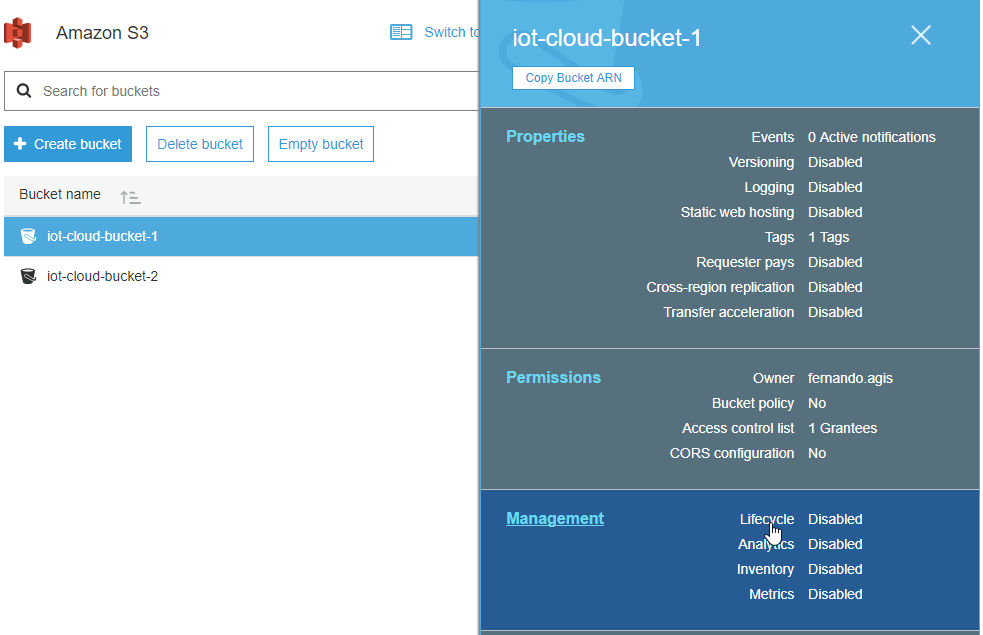
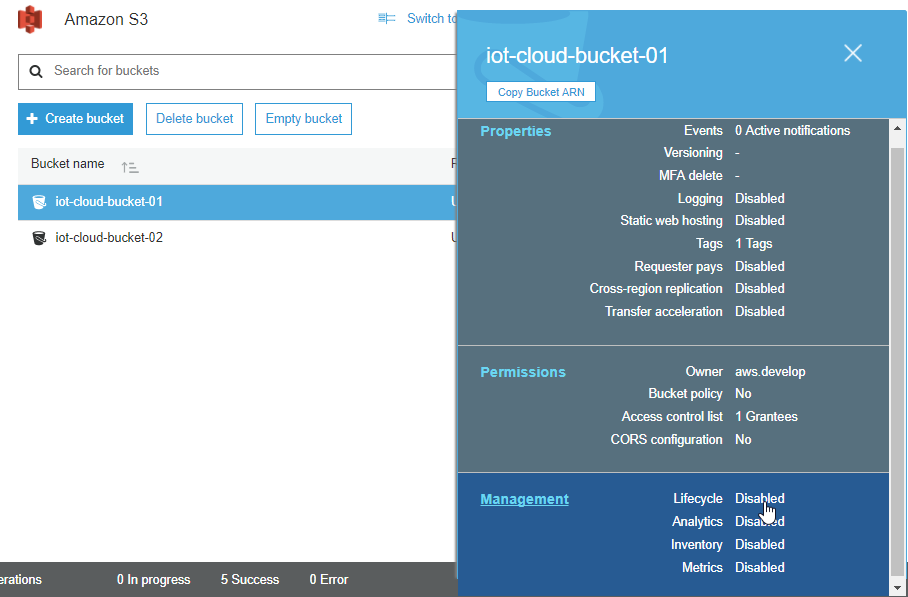
Actualización de ejemplos en Parte 2

Changed region(s): [[0.0, 0.0, 1.0, 1.0]]

diff --git a/AWS Cloud/S3/20170810_AWS_S3_Parte_2.md b/AWS Cloud/S3/20170810_AWS_S3_Parte_2.md
@@ -71,27 +71,30 @@ Los objetos se pueden subir directamente a una determinada *Storage Class*.
 Esto lo podemos hacer directamente por línea de comando:
 
 ```bash
+$ cat documento1.txt
+HOLA MUNDO!!  que original, no? :P
+
 $ aws s3 ls
-2017-08-08 16:33:33 iot-cloud-bucket-1
-2017-08-10 21:11:11 iot-cloud-bucket-2
+2017-08-08 16:33:33 iot-cloud-bucket-01
+2017-08-10 21:11:11 iot-cloud-bucket-02
 
-$ aws s3 cp documento1.txt s3://iot-cloud-bucket-2/ --storage-class REDUCED_REDUNDANCY
-upload: .\documento1.txt to s3://iot-cloud-bucket-2/documento1.txt
+$ aws s3 cp documento1.txt s3://iot-cloud-bucket-02/ --storage-class REDUCED_REDUNDANCY
+upload: .\documento1.txt to s3://iot-cloud-bucket-02/documento1.txt
 
-$ aws s3 ls iot-cloud-bucket-2
+$ aws s3 ls iot-cloud-bucket-02
 2017-08-10 21:16:02         34 documento1.txt
 ```
-En el ejemplo anterior estamos subiendo el objeto *documento1.txt* de nuesto equipo local hacia S3, y almacenandolo en el tipo de storage *Reduced Redundancy Storage (RRS)*.
+En el ejemplo anterior subimos el objeto *documento1.txt* de nuesto equipo local hacia S3, y al tipo de storage *Reduced Redundancy Storage (RRS)*.
 Podemos elegir donde subirlo utilizando las opciones *STANDARD*, *STANDARD_IA*, o *REDUCED_REDUNDANCY*.
 
 Ref: [Sintaxis del comando *aws s3 cp*](http://docs.aws.amazon.com/cli/latest/reference/s3/cp.html)
 
 Pero como sabemos en que clase de storage se encuentra este objeto??
-La línea de comando *aws s3* no muestra esta información.
-Pero podemos usar la línea de comando invocando a la API de S3 (la cual devuelve el resultado en formato JSON).
+La línea de comando *aws s3 ls* no muestra esta información.
+Pero podemos usar la línea de comando invocando a la API de S3 (la cual en este caso devuelve el resultado en formato JSON).
 
 ```bash
-$ aws s3api list-objects --bucket iot-cloud-bucket-2
+$ aws s3api list-objects --bucket iot-cloud-bucket-02
 {
     "Contents": [
         {
@@ -101,14 +104,14 @@ $ aws s3api list-objects --bucket iot-cloud-bucket-2
             "Size": 34,
             "StorageClass": "REDUCED_REDUNDANCY",
             "Owner": {
-                "DisplayName": "fernando.agis",
[1 lines of base64/hex data omitted]
+                "DisplayName": "aws.develop",
[1 lines of base64/hex data omitted]
             }
         }
     ]
 }
 ```
-Mediante la consola web de AWS S3, también podemos especificar la clase de storage donde subimos el objeto:
+Mediante la consola web de AWS S3, también podemos especificar la clase de storage cuando subimos el objeto:
 
 ![alt text](./images/S3_upload_05.png)
 ![alt text](./images/S3_upload_06.png)
@@ -119,15 +122,18 @@ Y ver a que clase de storage pertenece:
 Si el objeto ya se encuentra en S3, podemos cambiarle la *storage class*:
 
 ```bash
-$ aws s3 cp s3://iot-cloud-bucket-2/documento1.txt s3://iot-cloud-bucket-2/documento1.txt --storage-class STANDARD
-copy: s3://iot-cloud-bucket-2/documento1.txt to s3://iot-cloud-bucket-2/documento1.txt
+$ aws s3 cp s3://iot-cloud-bucket-02/documento1.txt s3://iot-cloud-bucket-02/documento1.txt --storage-class STANDARD
+copy: s3://iot-cloud-bucket-02/documento1.txt to s3://iot-cloud-bucket-02/documento1.txt
+
 ```
 Verifique en la consola web (o por línea de comando) que el objeto *documento1.txt* efectivamente se cambio a la clase de storage *STANDARD* (puede requerir un reload en la consola web).
 
 Y por supuesto que la clase de storage se puede cambiar desde la propia consola web, seleccionando el objeto y modificando sus propiedades:
 
 ![alt text](./images/S3_object_01.png)
+---
 ![alt text](./images/S3_object_02.png)
+---
 ![alt text](./images/S3_object_03.png)
 
 ---
@@ -143,9 +149,9 @@ Cuando se crea un objeto se le puede agregar la metadata en el momento que se re
 ![alt text](./images/S3_metadata_01.png)
 ![alt text](./images/S3_metadata_02.png)
 
-La metadata de sistema se muestra en campos predefinidos. Por ejemplo, *Content-Length* contiene el tamaño del objeto en bytes y no se puede modificar, mientras que  *ContentType* indica el tipo de objeto (image/png,plain/text) y puede ser modificado.
+La **metadata de sistema** se muestra en campos predefinidos. Por ejemplo, *Content-Length* contiene el tamaño del objeto en bytes y no se puede modificar, mientras que *ContentType* indica el tipo de objeto (image/png,plain/text) y puede ser modificado.
 
-La metadata de usuario debe ir siempre precedida de *"x-amz-meta-"*. Luego podríamos agregar nuestra información, por ejemplo el tipo de imagen (logo) y la versión de dicha imagen (1.0) del objeto que estoy subiendo. Esta metadata se asigna en forma de clave/valor:
+La **metadata de usuario** debe ir siempre precedida de *"x-amz-meta-"*. Podemos agregar la información que deseamos, por ejemplo el tipo de imagen (logo) y la versión de dicha imagen (1.0) del objeto que estoy subiendo. Esta metadata se asigna en forma de clave/valor:
   *x-amz-meta-imagen   logo
    x-amz-meta-version  1.0*
 
@@ -157,25 +163,24 @@ Si queremos ver la metadata que tiene un objeto, podemos hacerlo de la forma ant
 Como vimos antes, el comando *s3 ls* lista los objetos, pero no muestra información detallada de los mismo. Para esto, debemos utilizar la *s3api* con la opción de *head-object* que devuelve únicamente la metadata del objeto.
 
 ```bash
-$ aws s3 ls iot-cloud-bucket-1
-2017-08-10 23:40:26          7 Documento-1.rtf
-2017-08-10 23:40:20       6317 Planilla-1.xlsx
-2017-08-10 23:38:18     794112 conatel.png
-2017-08-10 14:03:04       1753 logo.png
+$ aws s3 ls iot-cloud-bucket-01
+                           PRE carpeta-01/
+2017-08-15 22:24:37       1753 logo.png
 
 
-$ aws s3api head-object --bucket iot-cloud-bucket-1 --key conatel.png
+$ aws s3api head-object --bucket iot-cloud-bucket-01 --key logo.png
 {
     "AcceptRanges": "bytes",
-    "LastModified": "Fri, 11 Aug 2017 02:38:18 GMT",
-    "ContentLength": 794112,
-    "ETag": "\"c31616a16c736ccabc19781d2a6ba8a0\"",
+    "LastModified": "Wed, 16 Aug 2017 01:24:37 GMT",
+    "ContentLength": 1753,
+    "ETag": "\"2b46f8824a3dad3bc73f2ed3f852728c\"",
     "ContentType": "image/png",
     "Metadata": {
         "version": "1.0",
         "imagen": "logo"
     }
 }
+
 
 ```
 
@@ -214,13 +219,13 @@ También pueden asignarse *tags* a los *buckets*, no solo a los objetos:
 ![alt text](./images/S3_tags_04.png)
 
 
-O por qué no, ya deberíamos poder hacer esto desde la CLI:
+O por qué no, ya deberíamos poder ver los tags desde la CLI:
 ```bash
 $ aws s3 ls
-2017-08-08 16:33:33 iot-cloud-bucket-1
-2017-08-10 21:11:11 iot-cloud-bucket-2
+2017-08-08 16:33:33 iot-cloud-bucket-01
+2017-08-10 21:11:11 iot-cloud-bucket-02
 
-$ aws s3api get-bucket-tagging --bucket iot-cloud-bucket-1
+$ aws s3api get-bucket-tagging --bucket iot-cloud-bucket-01
 {
     "TagSet": [
         {
@@ -231,13 +236,12 @@ $ aws s3api get-bucket-tagging --bucket iot-cloud-bucket-1
 }
 
 
-$ aws s3 ls iot-cloud-bucket-1
-2017-08-10 23:40:26          7 Documento-1.rtf
-2017-08-10 23:40:20       6317 Planilla-1.xlsx
-2017-08-10 23:38:18     794112 conatel.png
-2017-08-10 14:03:04       1753 logo.png
+$ aws s3 ls iot-cloud-bucket-01
+                           PRE carpeta-01/
+2017-08-15 22:24:37       1753 logo.png
 
-$ aws s3api get-object-tagging --bucket iot-cloud-bucket-1 --key conatel.png
+
+$ aws s3api get-object-tagging --bucket iot-cloud-bucket-01 --key logo.png
 {
     "TagSet": [
         {
@@ -254,6 +258,7 @@ $ aws s3api get-object-tagging --bucket iot-cloud-bucket-1 --key conatel.png
         }
     ]
 }
+
 
 ```
 Obviamente, también se pueden configurar los tags mediante la CLI *aws s3api put-bucket-tagging* y *aws s3api put-object-tagging*.
@@ -288,6 +293,7 @@ En conjunto con el uso de ***Versions*** también podemos aplicar acciones sobre
 
 Las *lifecycle policies* se crean sobre los *buckets*:
 ![alt text](./images/S3_lifecycle_02.png)
+
 ![alt text](./images/S3_lifecycle_03.png)
 
 Debemos especificar un nombre de la regla, y en forma opcional podemos por un filtro indicando sobre que *refix* o *tag* aplica la regla, en este caso todos los objetos cuyo nombre comience con *"logs_"*:
@@ -308,7 +314,7 @@ Ahora podemos ver la regla creada sobre el bucket:
 
 También podemos usar la **CLI**, por ejemplo, para ver la configuración de las *lifecycle policies* creadas para un *bucket*:
 ```bash
-$ aws s3api get-bucket-lifecycle-configuration --bucket iot-cloud-bucket-1
+$ aws s3api get-bucket-lifecycle-configuration --bucket iot-cloud-bucket-01
 {
     "Rules": [
         {
